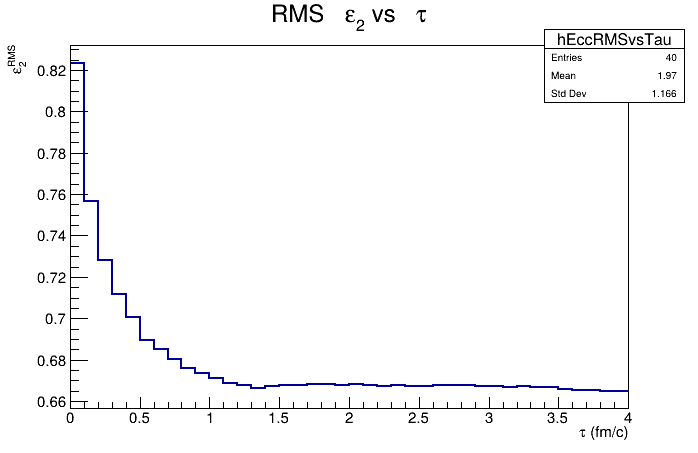
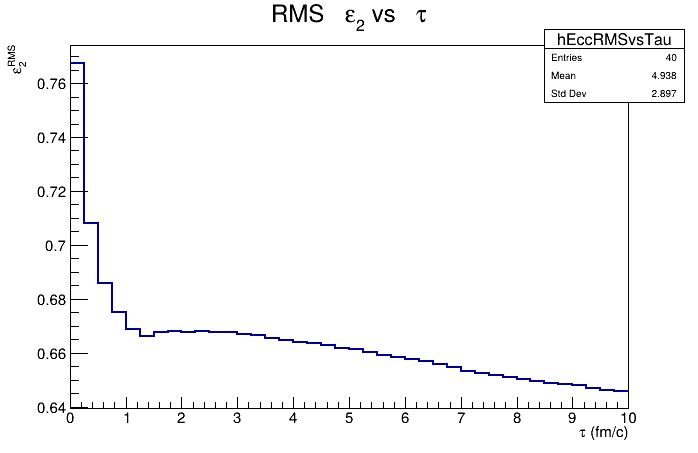
v2 and RMS eccentricity plots in test.C

diff --git a/Eccentricity-main/test.C b/Eccentricity-main/test.C
@@ -4,7 +4,7 @@
 #include "coordinateTools.h"
 
 
-const double maxTime = 4;
+const double maxTime = 10;
 
 TH2D *hMultTime = new TH2D("hMultTime", "Jet parton multiplicity vs time; t (fm/c); N_{parton}", 40, 0, maxTime, 50, 0, 50);
 TH1D *hPsi2Early = new TH1D("hPsi2Early123", "Early #Psi_{2};#Psi_{2};counts", 25, -TMath::Pi()/2, TMath::Pi()/2);
@@ -14,6 +14,7 @@ TH1D* hPsi2;
 TH1D *hPhiRelEarly = new TH1D("hPhiRelEarly", "#phi-#Psi_{2} (early);#Delta#phi;counts", 50, -TMath::Pi(), TMath::Pi());
 TH2D* hEccVsTau = new TH2D("hEccVsTau", "#varepsilon_{2} vs proper time; #tau (fm/c); #varepsilon_{2}", 40, 0, maxTime, 50, 0, 1);
 TH1D* hEccRMSvsTau = new TH1D("hEccRMSvsTau", "RMS #varepsilon_{2} vs #tau;#tau (fm/c); #varepsilon_{2}^{RMS}", 40, 0, maxTime);  // same binning as hEccVsTau
+TH1D* hV2Early = new TH1D("hV2Early", "v_{2} at #tau = 2 fm/c; v_{2}; counts", 50, 0, 1);
 
 struct Parton {
     int   pdgid;
@@ -328,6 +329,71 @@ void fillEccVsTau(
     }
 }
 
+void fillV2AtTau(
+    double tauTarget,
+    TH1D* hV2,
+    std::map<int, std::vector<int>>& partonsByJet,
+    std::vector<Parton>& partons
+)
+{
+    for (const auto& [jetID, idxs] : partonsByJet) {
+        if (idxs.size() < 2) continue;
+
+        // Compute event plane Ψ₂ using spatial eccentricity
+        double sumE = 0, sumx = 0, sumy = 0;
+        for (int idx : idxs) {
+            const auto& P = partons[idx];
+            if (P.tau > tauTarget) continue;
+            double dt = tauTarget - P.tau;
+            double x = P.jet_par_x + dt * P.jet_par_px / P.e;
+            double y = P.jet_par_y + dt * P.jet_par_py / P.e;
+            sumE += P.e;
+            sumx += P.e * x;
+            sumy += P.e * y;
+        }
+        if (sumE == 0) continue;
+
+        double xm = sumx / sumE;
+        double ym = sumy / sumE;
+
+        double Re = 0, Im = 0;
+        for (int idx : idxs) {
+            const auto& P = partons[idx];
+            if (P.tau > tauTarget) continue;
+            double dt = tauTarget - P.tau;
+            double x = P.jet_par_x + dt * P.jet_par_px / P.e;
+            double y = P.jet_par_y + dt * P.jet_par_py / P.e;
+            double dx = x - xm;
+            double dy = y - ym;
+            double r2 = dx * dx + dy * dy;
+            double phi = atan2(dy, dx);
+            double w = P.e * r2;
+            Re += w * cos(2 * phi);
+            Im += w * sin(2 * phi);
+        }
+
+        if (Re == 0 && Im == 0) continue;
+
+        double psi2 = 0.5 * atan2(Im, Re);
+
+        // Now compute v₂ using momenta relative to Ψ₂
+        double sumV2 = 0;
+        int n = 0;
+        for (int idx : idxs) {
+            const auto& P = partons[idx];
+            if (P.tau > tauTarget) continue;
+            double phi_mom = atan2(P.jet_par_py, P.jet_par_px);
+            sumV2 += cos(2 * (phi_mom - psi2));
+            ++n;
+        }
+
+        if (n > 0) {
+            double v2 = sumV2 / n;
+            hV2->Fill(v2);
+        }
+    }
+}
+
 void test()
 {
 	const int  earlyBin = 21;
@@ -384,10 +450,14 @@ void test()
 			tauEarly, hPsi2Early, hPhiRelEarly, hPsi2VsMultEarly, hPhiRelVsMultEarly,
 			partonsByJet, partons
 		);
+
+		fillV2AtTau(tauEarly, hV2Early, partonsByJet, partons);
+
 	}
 
 	computeEccentricityRMSvsTau(hEccVsTau, hEccRMSvsTau);
 
+	/*
 	TCanvas *cE1 = new TCanvas();
 	hPsi2Early->SetLineWidth(2);
 	hPsi2Early->GetYaxis()->SetRangeUser(200, 1200);
@@ -415,6 +485,7 @@ void test()
 	TCanvas* cPsi2VsN = new TCanvas();
 	hPsi2VsMultEarly->Draw("COLZ");
 	cPsi2VsN->SaveAs("Psi2VsMultEarly.png");
+	*/
 
 	// Eccentricity vs time
 	//TCanvas* cEccT = new TCanvas();
@@ -426,6 +497,12 @@ void test()
 	hEccRMSvsTau->SetLineWidth(2);
 	hEccRMSvsTau->Draw("HIST");
 	cEccRMS->SaveAs("EccentricityRMSvsTau.png");
+
+	TCanvas* cV2 = new TCanvas("cV2", "v2 at tau = 2 fm/c");
+	hV2Early->SetLineWidth(2);
+	hV2Early->SetLineColor(kBlue);
+	hV2Early->Draw();
+	cV2->SaveAs("V2Early.png");
 
 	inFile->Close();
 	delete tree;
